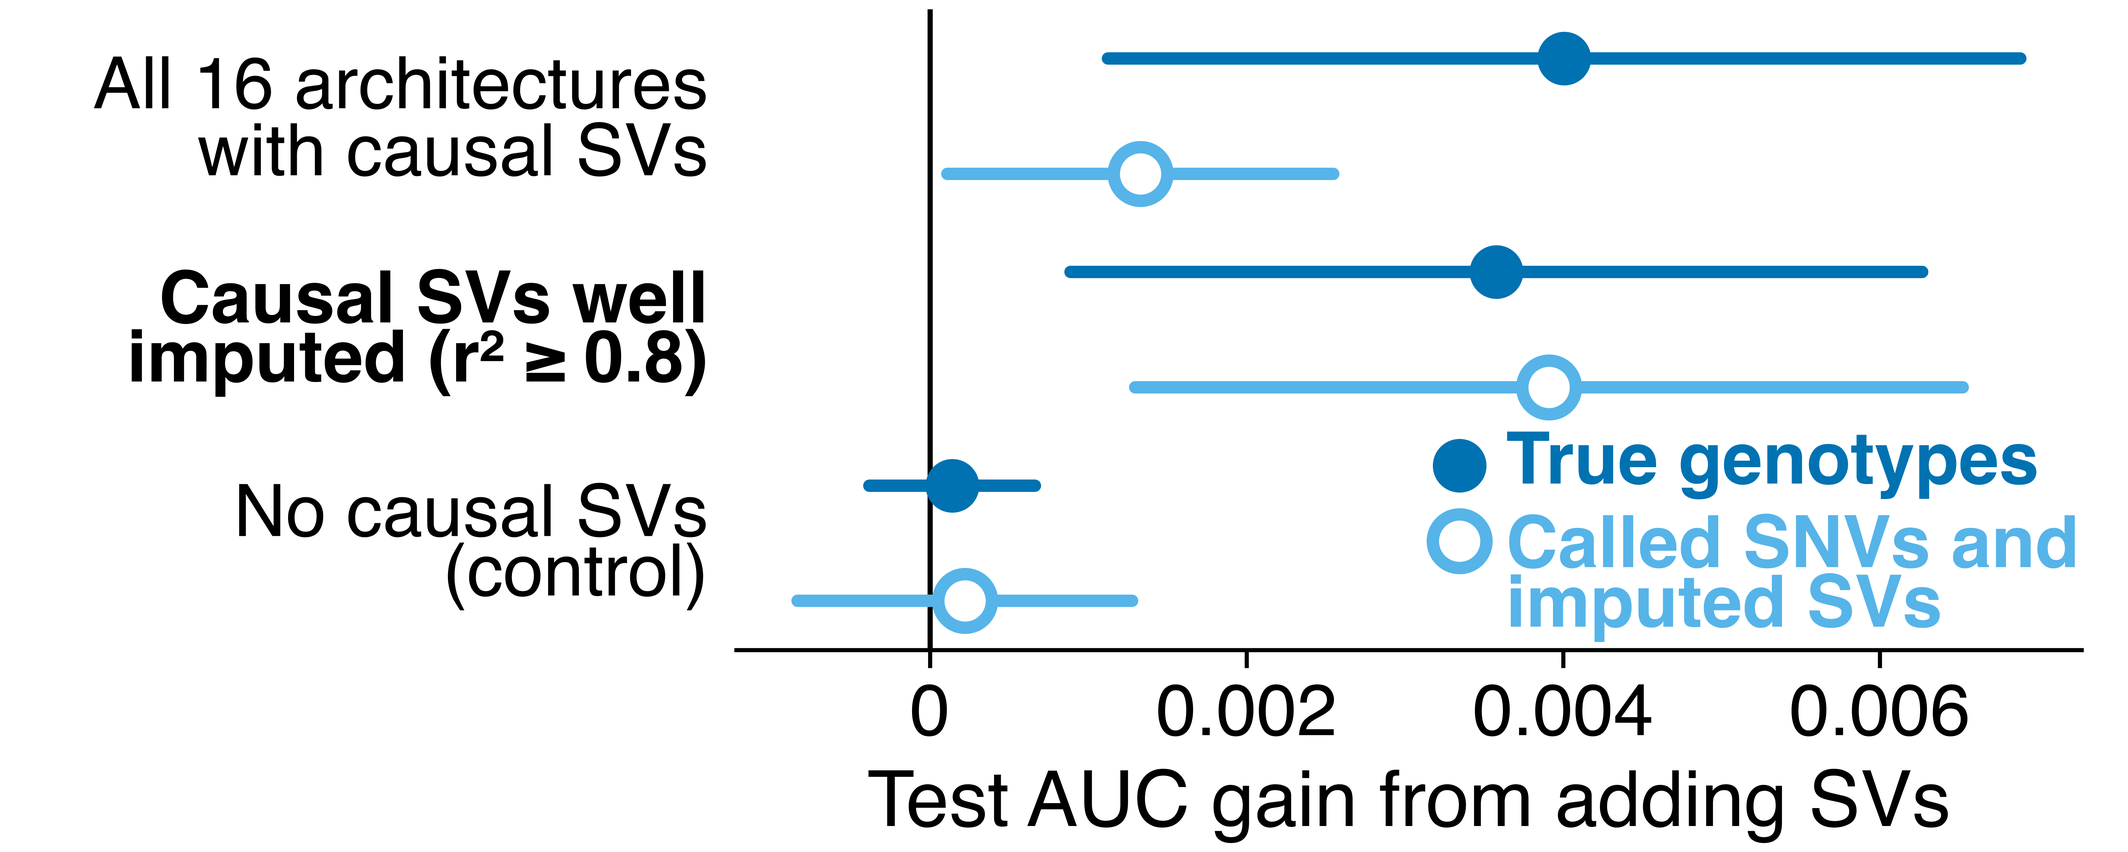
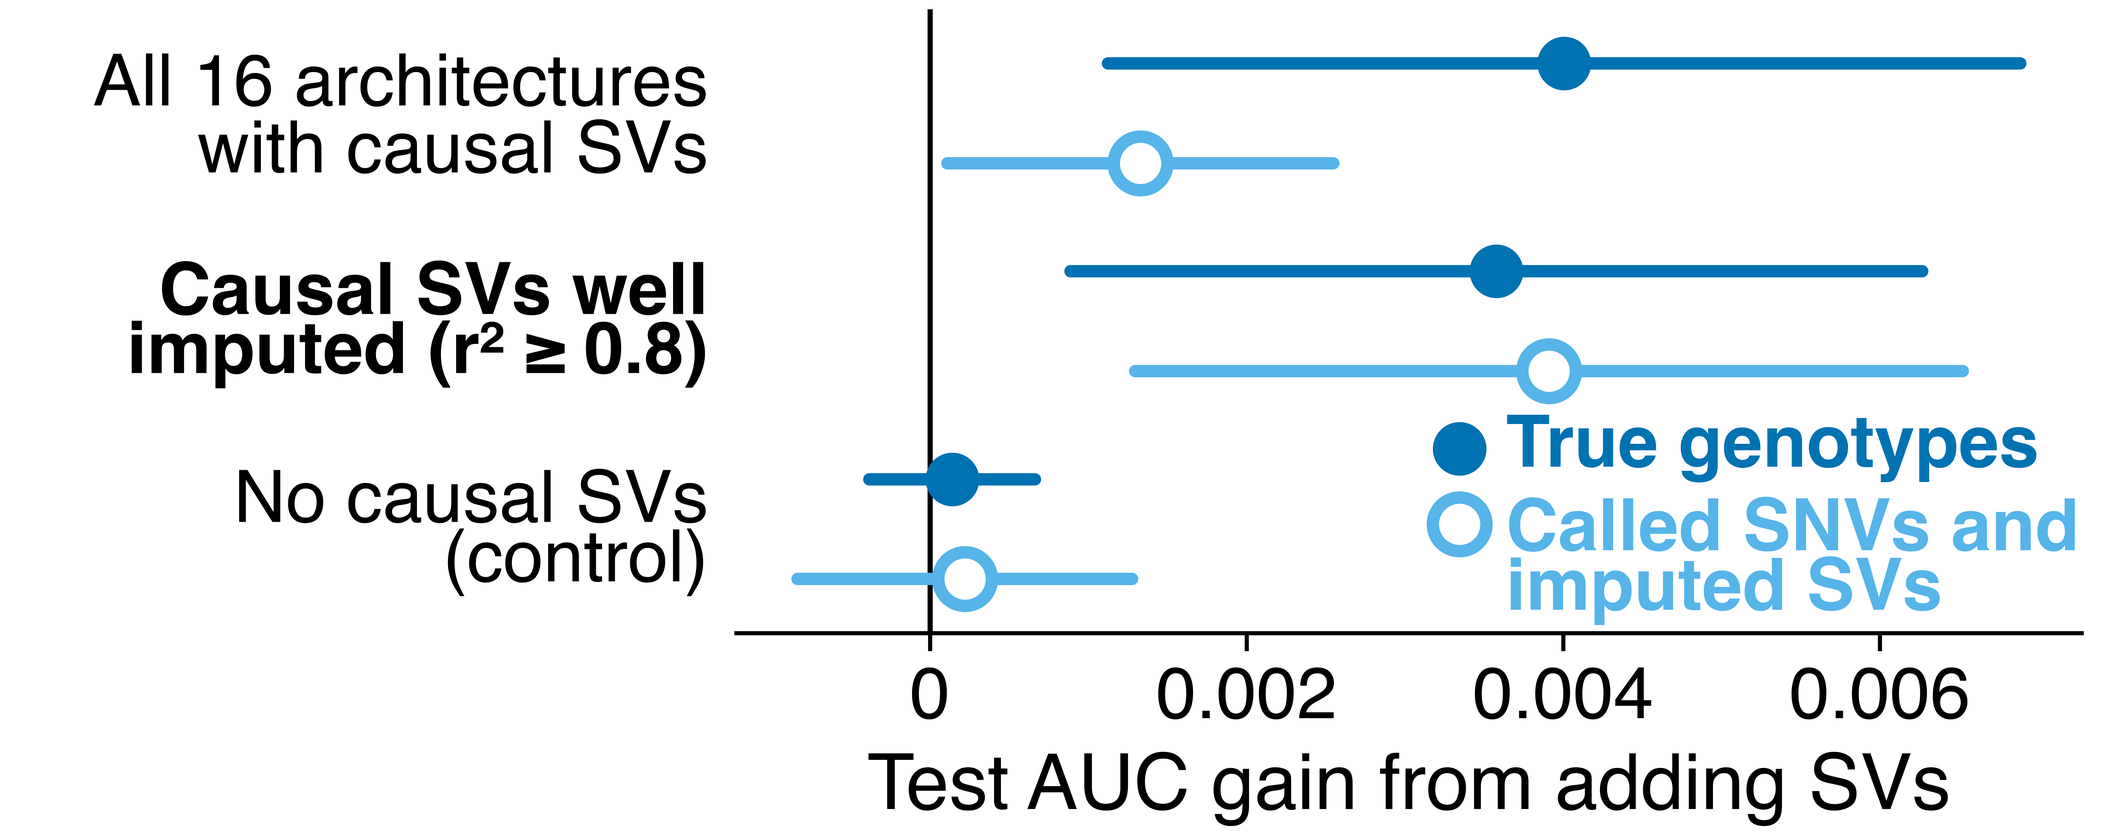
The poster's final pass: the whole-chr22 note gives its prevalence, the All of Us forest gives each change relative to the r² without SVs, the references are at body size, and the forest is ready to mark unconverged fits and draw the traits' common gain (docs/poster/ashg2026/build_pptx.py, aou_galle
Correctness. The design line counts 17 architectures. The whole-chr22 figures and the 0.033 AUC gain cover 16, all at 10% prevalence, because rare_disease (1%) ran in the 3 Mb window alone. The note over those figures now reads "Whole chr22 at 10% prevalence with test N = 10,000", from WHOLE_PREVALENCE, and a test checks it against grid.py. The All of Us forest's rows hold svgain's g, the change in r² as a fraction of the two models' mean r², under the title "Change in r² with SVs (%)". The forest now maps each g, with its interval's ends, to the change relative to the r² without SVs, 2g / (2 - g) (baseline_relative). That map increases, so an interval keeps its coverage, and a weighted g maps to the weighted change relative to the r² without SVs with the same weights. Today's five rows move by at most 0.1 percentage point (gout 4.53% to 4.63%).

Prepared for the final results (review item 11). A matched row with "unconverged": true gets a dagger after its trait's name and the line "† With-SV fit not converged" under the axis title. A "common" entry in aou_numbers.json's "matched" (relative, relative_lower, relative_upper, traits) adds a bold "All traits" row to the forest. It also leads the Discussion with "In All of Us, SVs changed r² by x% (95% CI a% to b%) over n traits", on the same scale as the forest. Neither shows until aou_numbers.json holds the entries. Hyperlipidemia gets its poster name.
[…]

diff --git a/docs/poster/ashg2026/aou_gallery.py b/docs/poster/ashg2026/aou_gallery.py
@@ -5,7 +5,9 @@ count of 1 to 20 is among them, and the file, like the figures, stays out of git
 NUMBERS holds:
 - "matched": the rows of SV-PGS with SVs against SV-PGS without them, fitted by identical code and scored on the same
   held-out people, one a trait: the held-out partial r² with SVs less without as a percentage of the two models' mean
-  partial r², the pre-specified g of sv_gain_meta.py (relative, relative_lower, relative_upper: its 95% interval);
+  partial r², the pre-specified g of sv_gain_meta.py (relative, relative_lower, relative_upper: its 95% interval), and
+  "unconverged": true when the with-SV fit stopped before converging. An optional "common" holds the traits' common g
+  the same way, with "traits", the number of traits it combines;
 - "enrichment": prior_enrichment.tsv's rows of arm with_sv, one a (trait, class) and one a trait for every SV together:
   the class's mean posterior E[beta^2 | data] per record over the SNVs' (posterior_enrichment, with its jackknife
   interval), the learned prior's (prior_enrichment), and the class's share of the model's genetic variance and of the
@@ -15,8 +17,10 @@ None of the last three is drawn: their posterior moments E[beta^2 | data] are mo
 data say little about each record (gout's SVs: 98% posterior variance), so they are no measure of what the data put on
 SVs.
 
-Outputs, in figures/: aou_1_gain.png from "matched", a row per trait, drawn when NUMBERS holds its rows (transparent,
-at the width of the poster's right column), with its .txt, whose first line describes the picture.
+Outputs, in figures/: aou_1_gain.png from "matched", a row per trait and one for "common" when it is given, drawn when
+NUMBERS holds its rows (transparent, at the width of the poster's right column), with its .txt, whose first line
+describes the picture. The figure gives each g as a change relative to the r² without SVs (baseline_relative), so its
+axis title, "Change in r² with SVs (%)", reads as it says.
 
     uv run --with matplotlib --with scipy python docs/poster/ashg2026/aou_gallery.py
 """
@@ -46,6 +50,7 @@ TRAITS = {
     "type_2_diabetes": "Type 2 diabetes", "coronary_artery_disease": "Coronary disease",
     "atrial_fibrillation": "Atrial fibrillation", "hypothyroidism": "Hypothyroidism", "gout": "Gout",
     "chronic_kidney_disease": "Kidney disease", "asthma": "Asthma", "stroke": "Stroke",
+    "hyperlipidemia": "Hyperlipidemia",
 }
 """Each trait's name on the poster; a trait not here is shown as its name with spaces."""
 
@@ -56,23 +61,29 @@ def trait_name(trait: str) -> str:
 
 
 def forest(rows: list[tuple[str, float, float, float]], xlabel: str, ticks: list[float], tick_text, log: bool,
-           reference: float | None = None, estimates: bool = False):
+           reference: float | None = None, estimates: bool = False, bold: frozenset = frozenset(),
+           note: str | None = None):
     """A forest at the column's width in the imputed SVs' sky blue: a row per (label, estimate, low, high), its label
     at the left of the canvas and its interval level with it, each estimate an open mark as imputed SVs' are in the
     simulation figures (every All of Us SV is imputed), with the reference drawn (0, or 1 on a log axis, unless given).
     The axis runs from the first tick to the last, or with ``estimates`` symmetric about the reference over the
     estimates alone, so that each estimate's mark clears an arrowhead at the axis's end. Every margin and the rows'
-    pitch are measured from the type, so the forest is as short as its type allows."""
+    pitch are measured from the type, so the forest is as short as its type allows. The labels in ``bold`` are set in
+    bold, and ``note`` is one line under the axis title."""
     reference = (1.0 if log else 0.0) if reference is None else reference
     fig = plt.figure(figsize=(COLUMN, 1.0))
     labels = [label for label, *_ in rows]
-    pitch = tallest(fig, labels, fontsize=POSTER_STYLE["font.size"]) + ROW_GAP
+    weight = {label: "bold" if label in bold else "normal" for label in labels}
+    pitch = max(tallest(fig, [label], fontsize=POSTER_STYLE["font.size"], fontweight=weight[label])
+                for label in labels) + ROW_GAP
     # an arrowhead at the axis's start reaches half its width to the left, toward the names
     arrow = POSTER_MARK * 0.7 / 2 / 72
-    left = widest(fig, labels, fontsize=POSTER_STYLE["font.size"]) + LABEL_GAP + arrow
+    left = max(widest(fig, [label], fontsize=POSTER_STYLE["font.size"], fontweight=weight[label])
+               for label in labels) + LABEL_GAP + arrow
     # the right margin holds half of the end tick's label; the bottom, the ticks and the axis title
     right = widest(fig, [tick_text(ticks[-1])], fontsize=POSTER_STYLE["font.size"]) / 2 + POSTER_PAD
-    top, bottom = POSTER_PAD, under_axes(fig, [xlabel])
+    line = tallest(fig, [note], fontsize=POSTER_STYLE["font.size"]) + POSTER_PAD if note else 0.0
+    top, bottom = POSTER_PAD, under_axes(fig, [xlabel]) + line
     height = top + bottom + pitch * len(rows)
     fig.set_size_inches(COLUMN, height)
     ax = frame(fig, left, bottom, COLUMN - left - right, height - top - bottom)
@@ -94,7 +105,7 @@ def forest(rows: list[tuple[str, float, float, float]], xlabel: str, ticks: list
                         zorder=3, clip_on=False)
         ax.plot([value], [row], "o", markersize=POSTER_MARK, color=SKY, markerfacecolor="white", markeredgecolor=SKY,
                 markeredgewidth=6.0, zorder=4)
-        ax.text(0, row, label, transform=shifted(ax, -left), ha="left", va="center")
+        ax.text(0, row, label, transform=shifted(ax, -left), ha="left", va="center", fontweight=weight[label])
     ax.axvline(reference, color=INK, linewidth=4.0, zorder=2)
     ax.set_yticks([])
     ax.spines["left"].set_visible(False)
@@ -105,6 +116,8 @@ def forest(rows: list[tuple[str, float, float, float]], xlabel: str, ticks: list
     ax.set_xlabel(xlabel)
     # centred on the canvas, not on the axes, whose margins differ: a title wider than the axes then fits either side
     ax.xaxis.label.set_x((COLUMN / 2 - left) / (COLUMN - left - right))
+    if note:
+        fig.text(0.5, POSTER_PAD / height, note, ha="center", va="bottom")
     return fig
 
 
@@ -121,16 +134,38 @@ def span(values: list[float]) -> list[float]:
     return list(np.arange(math.floor(low / step) * step, math.ceil(high / step) * step + step / 2, step))
 
 
-def gain_figure(matched: list[dict]) -> tuple:
-    """Each trait's change in held-out partial r² from adding SVs, as a share of the two models' mean partial r², with
-    its 95% interval, a row per trait."""
-    rows = [(trait_name(row["trait"]), row["relative"] / 100, row["relative_lower"] / 100, row["relative_upper"] / 100)
-            for row in matched]
+def baseline_relative(g: float) -> float:
+    """g, the change in r² from adding SVs as a fraction of the two models' mean r², as a fraction of the r² without SVs:
+    (c - b) / ((c + b) / 2) = g gives (c - b) / b = 2g / (2 - g). The map increases, so it takes an interval's ends to
+    the same interval's ends, and a weighted g, sum a (c - b) / sum a (c + b) / 2, to sum a (c - b) / sum a b with the
+    same weights. build_pptx.py's aou_result uses the same map."""
+    return 2 * g / (2 - g)
+
+
+UNCONVERGED = "† With-SV fit not converged"
+"""The line under the All of Us forest's axis title when a trait's with-SV fit stopped before converging; the trait's
+name then ends in the dagger."""
+COMBINED = "All traits"
+"""The All of Us forest's row for the traits' common g, its name in bold."""
+
+
+def gain_figure(matched: list[dict], common: dict | None = None) -> tuple:
+    """Each trait's change in held-out partial r² from adding SVs, relative to the r² without SVs (baseline_relative of
+    the pre-specified g), with its 95% interval, a row per trait, and a bold row for the traits' common g when
+    ``common`` is given. A trait whose with-SV fit stopped before converging has a dagger, explained under the axis."""
+    def ends(row):
+        return [baseline_relative(row[key] / 100) for key in ("relative", "relative_lower", "relative_upper")]
+
+    rows = [(trait_name(row["trait"]) + ("†" if row.get("unconverged") else ""), *ends(row)) for row in matched]
+    if common:
+        rows.append((COMBINED, *ends(common)))
+    note = UNCONVERGED if any(row.get("unconverged") for row in matched) else None
     # the axis spans the estimates, not their intervals; an interval that runs past it ends in an arrowhead
     fig = forest(rows, "Change in r² with SVs (%)", span([value for _, value, _, _ in rows]), percent, log=False,
-                 estimates=True)
-    return fig, ["Change in held-out partial r² from adding SVs to SV-PGS for each trait, as a percentage of the two "
-                 "models' mean partial r², with 95% intervals, an arrowhead marking an interval that runs past the axis"]
+                 estimates=True, bold=frozenset({COMBINED}), note=note)
+    return fig, ["Change in held-out partial r² from adding SVs to SV-PGS for each trait, relative to the r² without "
+                 "SVs, with 95% intervals, an arrowhead marking an interval that runs past the axis"
+                 + (", and the traits' common change in bold" if common else "")]
 
 
 def main() -> None:
@@ -138,7 +173,7 @@ def main() -> None:
     with plt.rc_context({**POSTER_STYLE, "axes.labelsize": POSTER_LABEL}):
         drawn = []
         if numbers.get("matched", {}).get("rows"):
-            drawn.append(("aou_1_gain", gain_figure(numbers["matched"]["rows"])))
+            drawn.append(("aou_1_gain", gain_figure(numbers["matched"]["rows"], numbers["matched"].get("common"))))
         for name, (fig, lines) in drawn:
             reach = overhang(fig)
             if max(reach) > 0:

diff --git a/docs/poster/ashg2026/build_pptx.py b/docs/poster/ashg2026/build_pptx.py
@@ -99,6 +99,11 @@ DESIGN_SETTINGS = {"h2": (0.01, 0.1), "prevalence": (0.01, 0.1), "causal_variant
 PREVALENCE or CAUSAL_VARIANTS), which tests/test_poster_simulation.py checks against the grid."""
 
 
+WHOLE_PREVALENCE = 0.1
+"""The prevalence of every architecture simulated on whole chr22 (grid.py's PREVALENCE), which
+tests/test_poster_simulation.py checks against the grid."""
+
+
 def cite(reference: str) -> str:
     """The superscript number of ``reference`` in REFERENCES."""
     return SUPERSCRIPT[REFERENCES.index(reference) + 1]
@@ -158,7 +163,8 @@ def copy(numbers: dict) -> dict:
         # genetic distance to HapMap3's chr22 count, so at most 16,000 (benchmarks/bench_sim/submissions/ldpred2_auto.py)
         "compared": ["SV-PGS: all SNVs, indels and SVs",
                      f"LDpred2-auto{cite('Privé 2020 Bioinformatics')}: up to 16,000 SNVs with MAF ≥ 1%"],
-        "whole_note": f"Simulations on whole chr22 with test N = {people(accuracy['test_people'])}",
+        # every whole-chr22 architecture has the grid's PREVALENCE: rare_disease, at 1%, ran in the 3 Mb window alone
+        "whole_note": f"Whole chr22 at {WHOLE_PREVALENCE:.0%} prevalence with test N = {people(accuracy['test_people'])}",
         "gain_note": f"Mean and 95% CI over {simulations} simulations in 3 Mb of chr22",
         # GLIMPSE2 is Rubinacci 2023; the assemblies are the accepted abstract's 12,212 phased genome assemblies
         "aou": ["We imputed SVs from 12,212 long-read assemblies into 100,000 All of Us"
@@ -182,6 +188,29 @@ def aou_matched() -> list[str]:
     # fit_variant_sites HapMap3, which keeps the SNVs at HapMap3 sites and every SV (workspace_pipeline.fit_filtered)
     return ["We fit SV-PGS with and without SVs and tested both in held-out people",
             "Variants with MAF ≥ 1% and imputation r² ≥ 0.3: HapMap3 SNVs and SVs"] if rows else []
+
+
+def baseline_relative(g: float) -> float:
+    """aou_gallery.baseline_relative: g, a change in r² as a fraction of the two models' mean r², as a fraction of the
+    r² without SVs, 2g / (2 - g), so the Discussion gives the same change the All of Us forest draws."""
+    return 2 * g / (2 - g)
+
+
+def signed(share: float) -> str:
+    """A share in percent to one decimal, with a minus sign for a loss."""
+    return f"{share * 100:.1f}%".replace("-", "−")
+
+
+def aou_result() -> list[str]:
+    """The All of Us result as one Discussion bullet when aou_numbers.json's "matched" holds the traits' "common" g: its
+    change in r² relative to the r² without SVs, with its 95% interval."""
+    path = HERE / "aou_numbers.json"
+    common = json.loads(path.read_text()).get("matched", {}).get("common") if path.is_file() else None
+    if not common:
+        return []
+    value, lower, upper = (baseline_relative(common[key] / 100) for key in ("relative", "relative_lower", "relative_upper"))
+    return [f"In All of Us, SVs changed r² by {signed(value)} (95% CI {signed(lower)} to {signed(upper)}) over "
+            f"{common['traits']} traits"]
 
 
 # ------------------------------------------------------------------ DrawingML
@@ -625,7 +654,7 @@ def build() -> None:
     gallery = {name: GALLERY / f"{name}.png" for name in (
         "poster_wins", "poster_sv_gain", "poster_accuracy_by_training_size", "poster_imputation_accuracy",
         "poster_model")}
-    references = [Para([(f"{SUPERSCRIPT[index]}{reference}", "")], REFERENCE, bullet=False, after=0)
+    references = [Para([(f"{SUPERSCRIPT[index]}{reference}", "")], BODY, bullet=False, after=0)
                   for index, reference in enumerate(REFERENCES, start=1)]
     half = math.ceil(len(references) / 2)
     # the poster reads Introduction and Methods, the simulation's results, All of Us, then Discussion at the foot of
@@ -649,7 +678,7 @@ def build() -> None:
         ],
         [
             bar(119, "All of Us"), text(bullets(words["aou"])), *aou_blocks(),
-            bar(95, "Discussion"), text(bullets(words["discussion"])),
+            bar(95, "Discussion"), text(bullets([*aou_result(), *words["discussion"]])),
             code(words["code"]),
         ],
     ]

diff --git a/tests/test_poster_figures.py b/tests/test_poster_figures.py
@@ -2,6 +2,7 @@
 title, tick label, legend or note fails here, as does a picture set at another aspect ratio or cropped."""
 from __future__ import annotations
 
+import json
 import math
 import re
 import sys
@@ -64,6 +65,10 @@ def poster_figures():
                                            ("hypothyroidism", 1.4, -0.4, 3.2), ("gout", 4.5, -24.6, 33.6))]
     with plt.rc_context({**sim_gallery.POSTER_STYLE, "axes.labelsize": sim_gallery.POSTER_LABEL}):
         yield "aou_1_gain", aou_gallery.gain_figure(rows)[0]
+        # the final forest: a with-SV fit that stopped unconverged, and the traits' common g
+        flagged = [*rows[:3], {**rows[3], "unconverged": True}]
+        common = {"relative": 0.2, "relative_lower": -0.6, "relative_upper": 1.1, "traits": 4}
+        yield "aou_1_gain_final", aou_gallery.gain_figure(flagged, common)[0]
 
 
 def drawn_texts(fig):
@@ -109,3 +114,41 @@ def test_the_poster_places_each_figure_whole(tmp_path):
         assert across / up == pytest.approx(300 / 200, rel=1e-4)
         assert across <= build_pptx.emu(width) and up <= build_pptx.emu(height)
         assert "srcRect" not in shape and "<a:fillRect/>" in shape
+
+
+def test_the_all_of_us_forest_marks_an_unconverged_fit_and_draws_the_common_gain():
+    rows = [{"trait": "gout", "relative": 4.5, "relative_lower": -24.6, "relative_upper": 33.6, "unconverged": True},
+            {"trait": "egfr", "relative": 0.3, "relative_lower": -1.1, "relative_upper": 1.7}]
+    common = {"relative": 0.2, "relative_lower": -0.6, "relative_upper": 1.1, "traits": 2}
+    with plt.rc_context({**sim_gallery.POSTER_STYLE, "axes.labelsize": sim_gallery.POSTER_LABEL}):
+        fig, lines = aou_gallery.gain_figure(rows, common)
+    shown = [text.get_text() for text in drawn_texts(fig)]
+    assert "Gout†" in shown and aou_gallery.UNCONVERGED in shown and aou_gallery.COMBINED in shown
+    assert "common change" in lines[0]
+    plt.close(fig)
+    with plt.rc_context({**sim_gallery.POSTER_STYLE, "axes.labelsize": sim_gallery.POSTER_LABEL}):
+        fig, _ = aou_gallery.gain_figure(rows[1:])
+    shown = [text.get_text() for text in drawn_texts(fig)]
+    assert aou_gallery.UNCONVERGED not in shown and aou_gallery.COMBINED not in shown
+    plt.close(fig)
+
+
+def test_the_forest_and_the_discussion_give_the_change_relative_to_the_r2_without_svs():
+    # c = 0.12 against b = 0.10: g = 0.02 / 0.11, and the change relative to b is 20%
+    g = 0.02 / 0.11
+    assert aou_gallery.baseline_relative(g) == pytest.approx(0.2)
+    assert build_pptx.baseline_relative(g) == pytest.approx(0.2)
+    # a weighted g maps to the weighted change relative to b with the same weights
+    weights, before, after = np.array([2.0, 1.0]), np.array([0.10, 0.05]), np.array([0.11, 0.04])
+    weighted = (weights * (after - before)).sum() / (weights * (after + before) / 2).sum()
+    assert aou_gallery.baseline_relative(weighted) == pytest.approx((weights * (after - before)).sum()
+                                                                    / (weights * before).sum())
+
+
+def test_the_discussion_states_the_common_all_of_us_change_only_when_it_is_given(monkeypatch, tmp_path):
+    monkeypatch.setattr(build_pptx, "HERE", tmp_path)
+    assert build_pptx.aou_result() == []
+    (tmp_path / "aou_numbers.json").write_text(json.dumps({"matched": {"rows": [], "common": {
+        "relative": -2.0, "relative_lower": -4.0, "relative_upper": 0.5, "traits": 10}}}))
+    line, = build_pptx.aou_result()
+    assert line == "In All of Us, SVs changed r² by −2.0% (95% CI −3.9% to 0.5%) over 10 traits"

diff --git a/docs/poster/ashg2026/sim_gallery.py b/docs/poster/ashg2026/sim_gallery.py
@@ -991,10 +991,10 @@ sv_min_realized_r2)."""
 POSTER_GAIN, POSTER_GENOTYPES = 22.92, 11.4
 """Inches: the widths of the SV gain forest (the poster's middle column, build_pptx.py's MIDDLE) and the imputation
 figure (the left column, LEFT), each placed at its column's full width."""
-POSTER_GAIN_HEIGHT = 9.18
+POSTER_GAIN_HEIGHT = 9.0
 """Inches: the SV gain forest's height, which fills the middle column from the training-size figures to the References
 at its foot (build_pptx.py's layout leaves 0.02 in to spare)."""
-GAIN_WEIGHT, GAIN_OFFSET = 1.6, 0.27
+GAIN_WEIGHT, GAIN_OFFSET = 1.6, 0.24
 """The SV gain forest's marks and intervals relative to the poster's (POSTER_MARK, POSTER_BAR), and the rows each
 source's interval sits above (true genotypes) or below (imputed SVs) its set's row."""
 FOREST_SIZES = SIZES[:3]
@@ -1049,7 +1049,9 @@ def gain_forest(rows: list[dict], bold: dict, band: bool):
             if math.isfinite(test["lower"]):
                 ax.hlines(y + offset, test["lower"], test["upper"], color=color, linewidth=bar, zorder=3,
                           capstyle="round")
-                drawn.append((y + offset, test["upper"]))
+                drawn.append((y + offset, test["upper"], bar / 2 / 72))
+            # a mean's mark reaches its radius and half its ring past its centre
+            drawn.append((y + offset, test["mean"], (mark + ring) / 2 / 72))
             ax.plot([test["mean"]], [y + offset], "o", markersize=mark, color=color,
                     markerfacecolor=color if filled else "white", markeredgecolor=color,
                     markeredgewidth=0 if filled else ring, zorder=4)
@@ -1084,12 +1086,11 @@ def gain_forest(rows: list[dict], bold: dict, band: bool):
     line = tallest(fig, ["Called"], **style)
     across = POSTER_GAIN - right - widest(fig, names, **style) - gap
     foot, head = bottom + POSTER_PAD, bottom + POSTER_PAD + sum(heights) + POSTER_PAD
-    # the column, marks included, must clear every interval level with it
+    # the column, marks included, must clear every interval's right end and every mean's mark by a pad
     inches = fig.dpi_scale_trans.inverted()
-    reach = bar / 2 / 72
-    for y, upper in drawn:
-        x_end, y_at = inches.transform(ax.transData.transform((upper, y)))
-        if foot - reach - POSTER_PAD <= y_at <= head + reach + POSTER_PAD and x_end + reach > across - mark / 2 / 72 - POSTER_PAD:
+    for y, x, reach in drawn:
+        x_at, y_at = inches.transform(ax.transData.transform((x, y)))
+        if foot - reach - POSTER_PAD <= y_at <= head + reach + POSTER_PAD and x_at + reach > across - mark / 2 / 72 - POSTER_PAD:
             plt.close(fig)
             return None
     up = head

diff --git a/tests/test_poster_simulation.py b/tests/test_poster_simulation.py
@@ -164,3 +164,15 @@ def test_poster_gain_note_counts_the_simulations_the_forest_draws(monkeypatch, t
     rows = json.loads((poster.HERE / "figures/gallery/numbers.json").read_text())["poster_sv_gain"]["rows"]
     drawn = sum(row["true"][3] for row in rows.values() if row is not rows.get("well_imputed"))
     assert f"over {drawn} simulations" in poster_copy(poster)["gain_note"]
+
+
+def test_the_whole_chr22_note_gives_the_prevalence_every_whole_chr22_architecture_has(monkeypatch, tmp_path):
+    from benchmarks.power import grid
+
+    poster = poster_module(monkeypatch, tmp_path)
+    assert poster.WHOLE_PREVALENCE == grid.PREVALENCE
+    # the one point at another prevalence ran in the 3 Mb window alone
+    others = {name for name, point in grid.POINTS.items()
+              if point.get("truth", {}).get("prevalence", grid.PREVALENCE) != grid.PREVALENCE}
+    assert others == {"rare_disease"}
+    assert "at 10% prevalence" in poster_copy(poster)["whole_note"]
